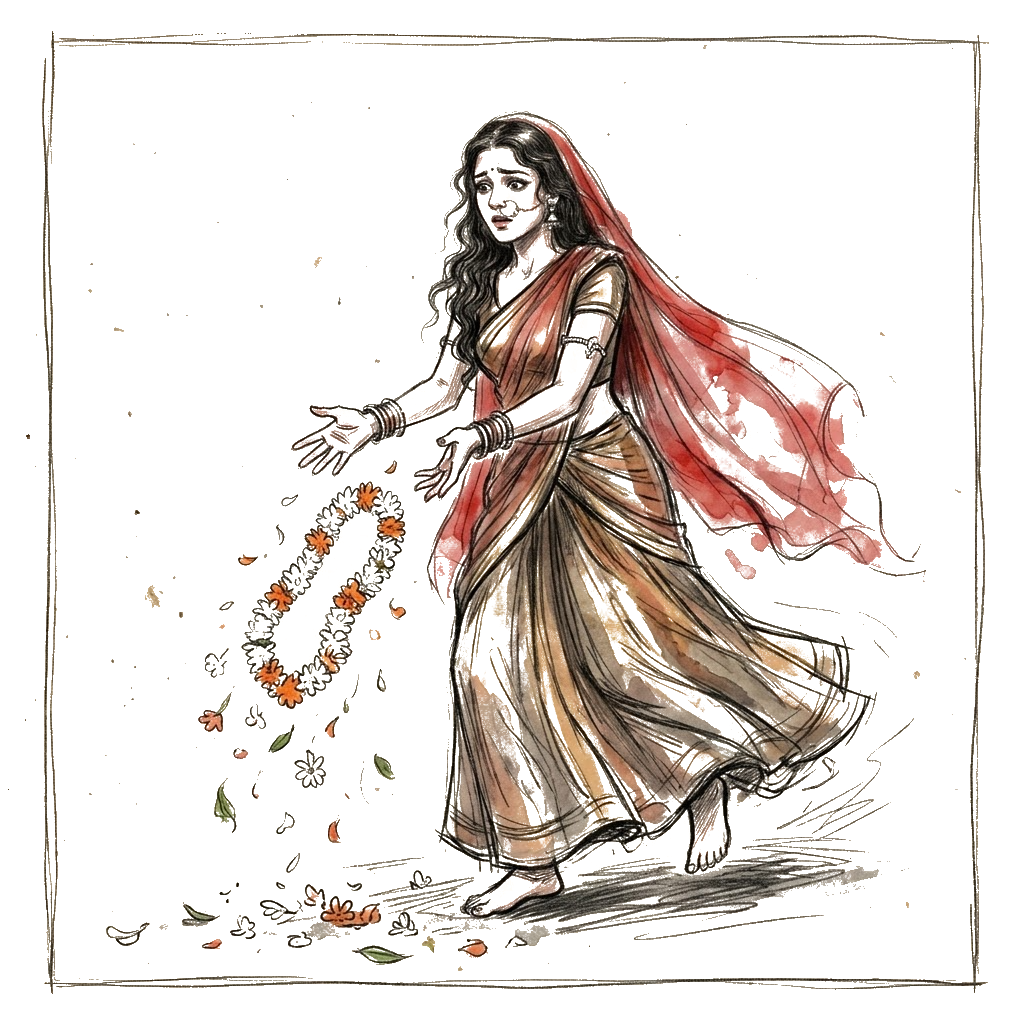
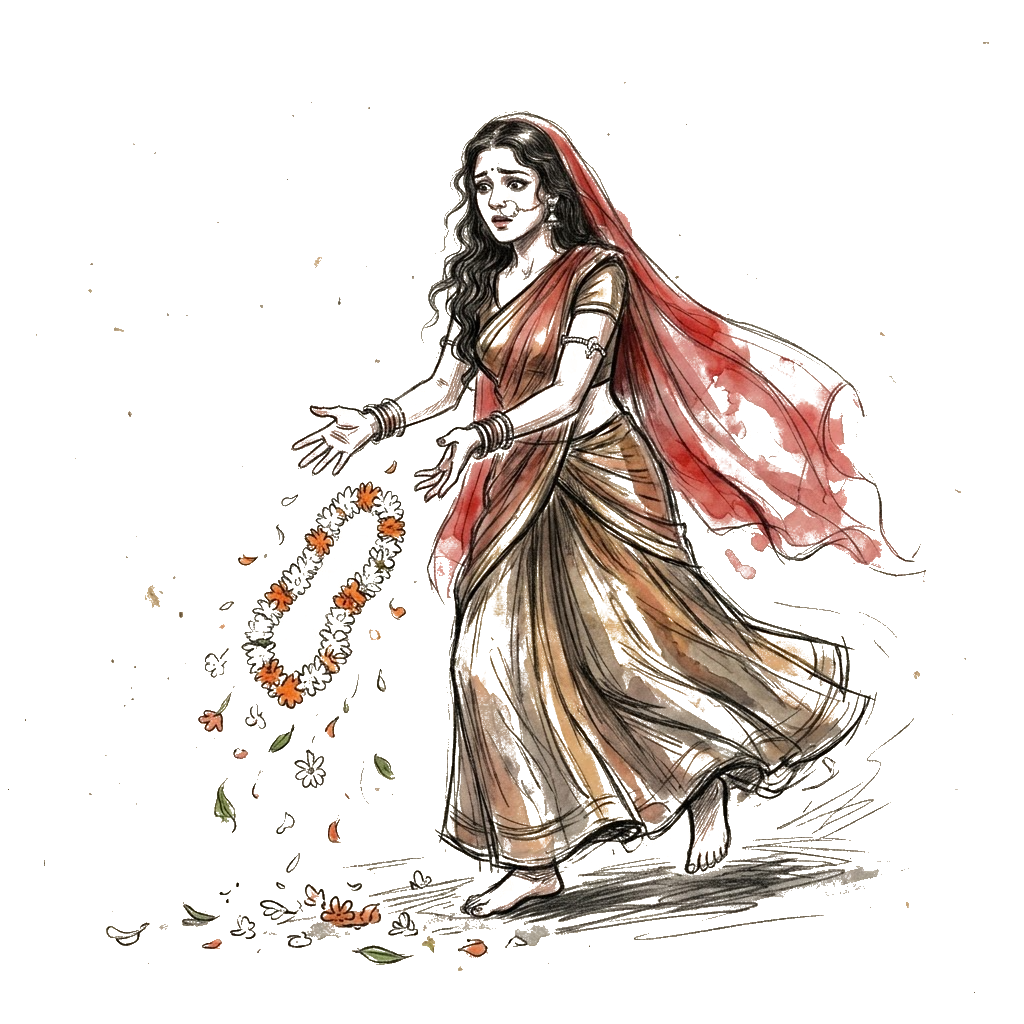
layors

diff --git a/src/timeline/layers.js b/src/timeline/layers.js
@@ -159,7 +159,7 @@ export const shotLayers = {
     ['s07_06', '/assets/paper/cast_krishna/krishna_042_looking_back_with_sorrow.png', 28.677, 29.279], // छोड़
     ['s07_07', '/assets/paper/cast_krishna/krishna_054_turning_into_wind.png', 29.28, 29.906], // गए
     ['s07_08', '/assets/paper/cast_radha/radha_020_radha_gazing_at_full_moon.png', 29.907, 30.533], // आए
-    ['s07_09', '/assets/paper/cast_radha/Woman_warning_do_not_love_94694822.png', 30.534, 31.16], // ना
+    ['s07_09', '/assets/paper/cast_radha/Woman_warning_do_not_love_43c27279.png', 30.534, 31.16], // ना
     ['s07_10', '/assets/paper/cast_radha/radha_084_standing_in_shock.png', 31.161, 31.764], // ना
     ['s07_11', '/assets/paper/cast_krishna/Figure_playing_flute_edb8cf9e.png', 31.765, 32.391], // सँवरिया
     ['s07_12', '/assets/paper/cast_krishna/krishna_089_playing_bamboo_flute.png', 32.392, 33.018], // सँवरिया
@@ -176,15 +176,15 @@ export const shotLayers = {
     ['s08_03', '/assets/paper/cast_radha/Young_woman_tying_crimson_odhni_0ab889c5.png', 36.711, 37.313], // अपना
     ['s08_04', '/assets/paper/cast_radha/radha_012_hands_holding_red_thread.png', 37.314, 37.94], // बनाकर
     ['s08_05', '/assets/paper/cast_krishna/krishna_072_playing_bansuri_sketch.png', 37.941, 38.544], // बनाकर
-    ['s08_06', '/assets/paper/cast_krishna/krishna_026_turning_away_with_flute.png', 38.545, 39.171], // छोड़
+    ['s08_06', '/assets/paper/cast_krishna/krishna_035_gazing_at_starlit_heavens.png', 38.545, 39.171], // छोड़
     ['s08_07', '/assets/paper/cast_krishna/krishna_086_walking_with_flute.png', 39.172, 39.798], // गए
     ['s08_08', '/assets/paper/cast_radha/radha_028_radha_pointing_into_distance.png', 39.799, 40.425], // आए
-    ['s08_09', '/assets/paper/cast_radha/Woman_showing_stop_gesture_ac834cce.png', 40.426, 41.029], // ना
+    ['s08_09', '/assets/paper/cast_radha/Woman_sitting_with_broken_thread_c0c7ce84.png', 40.426, 41.029], // ना
     ['s08_10', '/assets/paper/cast_radha/Woman_warning_do_not_love_43c27279.png', 41.03, 41.656], // ना
     ['s08_11', '/assets/paper/cast_krishna/krishna_091_playing_golden_flute.png', 41.657, 42.259], // सँवरिया
     ['s08_12', '/assets/paper/cast_krishna/Figure_playing_flute_7f64f0af.png', 42.26, 42.886], // सँवरिया
-    ['s08_13', '/assets/paper/cast_krishna/Figure_walking_with_flute_978419c1.png', 42.887, 43.513], // सँवरिया
-    ['s08_14', '/assets/paper/cast_radha/Young_person_sitting_with_sorrow_3f7b1198.png', 43.514, 44.14], // बेदरदी
+    ['s08_13', '/assets/paper/cast_krishna/Figure_playing_flute_7f64f0af.png', 42.887, 43.513], // सँवरिया
+    ['s08_14', '/assets/paper/cast_radha/radha_052_walking_with_sorrowful_steps.png', 43.514, 44.14], // बेदरदी
     ['s08_15', '/assets/paper/cast_krishna/Figure_holding_bansuri_with_tear_ab630819.png', 44.141, 44.744], // बेदरदी
     ['s08_16', '/assets/paper/cast_radha/radha_076_sitting_hugging_midriff.png', 44.745, 45.199], // बेदरदी
   ], {top: '-2%', left: '2%', width: '34%'}),
@@ -199,7 +199,7 @@ export const shotLayers = {
     ['s09_06', '/assets/paper/cast_radha/radha_088_stepping_backwards_looking.png', 48.46, 49.086], // छोड़
     ['s09_07', '/assets/paper/cast_krishna/Figure_walking_away_holding_bansuri_47032d25.png', 49.087, 49.69], // गए
     ['s09_08', '/assets/paper/cast_radha/radha_020_gazing_at_full_moon.png', 49.691, 50.317], // आए
-    ['s09_09', '/assets/paper/cast_radha/Woman_holding_hands_out_stopping_5f96673a.png', 50.318, 50.944], // ना
+    ['s09_09', '/assets/paper/cast_radha/Woman_holding_bamboo_flute_a97eddef.png', 50.318, 50.944], // ना
     ['s09_10', '/assets/paper/cast_radha/Young_person_reacting_in_shock_d0407228.png', 50.945, 51.547], // ना
     ['s09_11', '/assets/paper/cast_krishna/Young_figure_standing_with_bansuri_894a09e8.png', 51.548, 52.174], // सँवरिया
     ['s09_12', '/assets/paper/cast_krishna/Figure_walking_with_bansuri_8d1f4477.png', 52.175, 52.801], // सँवरिया
@@ -277,7 +277,7 @@ export const shotLayers = {
     },
     {
       id: 'v1_r4_preet',
-      src: '/assets/paper/cast_radha/Woman_holding_flute_against_heart_28e13670.png',
+      src: '/assets/paper/cast_radha/Young_woman_holding_heart_c154b81b.png',
       start: 60.233,
       end: 60.835, // beat 60.836
       opacity: 1.0,
@@ -369,10 +369,10 @@ export const shotLayers = {
     ['s12_08', '/assets/paper/cast_radha/radha_029_radha_pointing_toward_rainbow.png', 72.237, 72.863], // कोए
     ['s12_09', '/assets/paper/cast_radha/radha_053_walking_with_urgent_footsteps.png', 72.864, 73.49], // नगर
     ['s12_10', '/assets/paper/cast_radha/radha_044_radha_standing_with_open_arms.png', 73.491, 74.14], // ढिंढोरा
-    ['s12_11', '/assets/paper/cast_radha/Young_woman_proclaiming_with_rai…_46cf846a.png', 74.141, 74.767], // ढिंढोरा
+    ['s12_11', '/assets/paper/cast_radha/Young_woman_placing_hand_on_c3c9fb61.png', 74.141, 74.767], // ढिंढोरा
     ['s12_12', '/assets/paper/cast_radha/radha_049_twirling_in_joyful_circles.png', 74.768, 75.394], // पीटती
-    ['s12_13', '/assets/paper/cast_radha/Woman_holding_flute_against_heart_baafa6b8.png', 75.395, 76.021], // प्रीत
-    ['s12_14', '/assets/paper/cast_radha/Woman_warning_do_not_love_4dadec12.png', 76.022, 76.648], // ना
+    ['s12_13', '/assets/paper/cast_radha/radha_066_holding_flute_at_riverbank.png', 75.395, 76.021], // प्रीत
+    ['s12_14', '/assets/paper/cast_radha/Woman_warning_do_not_love_43c27279.png', 76.022, 76.648], // ना
     ['s12_15', '/assets/paper/cast_radha/Woman_warning_crowd_d85261e7.png', 76.649, 77.275], // करियो
     ['s12_16', '/assets/paper/cast_radha/radha_029_pointing_toward_rainbow.png', 77.276, 77.925], // कोए
     ['s12_17', '/assets/paper/cast_radha/radha_044_standing_with_open_arms.png', 77.926, 78.529], // कोए
@@ -671,10 +671,10 @@ export const shotLayers = {
     ['s27_04', '/assets/paper/cast_radha/radha_021_holding_earthen_diya_lamp.png', 216.038, 216.664], // जलती
     ['s27_05', '/assets/paper/cast_radha/radha_064_holding_burning_incense_stick.png', 216.665, 217.291], // चिता
     ['s27_06', '/assets/paper/cast_radha/radha_037_seated_looking_at_foot.png', 217.292, 217.918], // में
-    ['s27_07', '/assets/paper/cast_krishna/krishna_026_turning_away_with_flute.png', 217.919, 218.545], // छोड़
+    ['s27_07', '/assets/paper/cast_krishna/krishna_027_walking_toward_camera.png', 217.919, 218.545], // छोड़
     ['s27_08', '/assets/paper/cast_krishna/Figure_walking_away_holding_bansuri_7a551536.png', 218.546, 219.172], // गए
     ['s27_09', '/assets/paper/cast_radha/radha_020_radha_gazing_at_full_moon.png', 219.173, 219.799], // आए
-    ['s27_10', '/assets/paper/cast_radha/Woman_warning_do_not_love_4dadec12.png', 219.8, 220.426], // ना
+    ['s27_10', '/assets/paper/cast_radha/Woman_warning_do_not_love_43c27279.png', 219.8, 220.426], // ना
     ['s27_11', '/assets/paper/cast_radha/Woman_warning_do_not_love_068f8aa0.png', 220.427, 221.053], // ना
     ['s27_12', '/assets/paper/cast_krishna/krishna_089_playing_bamboo_flute.png', 221.054, 221.68], // सँवरिया
     ['s27_13', '/assets/paper/cast_krishna/Figure_playing_flute_7f64f0af.png', 221.681, 222.307], // सँवरिया
@@ -695,7 +695,7 @@ export const shotLayers = {
     ['s28_07', '/assets/paper/cast_krishna/Young_figure_walking_away_04e3de9a.png', 227.927, 228.553], // छोड़
     ['s28_08', '/assets/paper/cast_krishna/Figure_turning_with_flute_870609b2.png', 228.554, 229.18], // गए
     ['s28_09', '/assets/paper/cast_krishna/krishna_101_looking_up_sky.png', 229.181, 229.807], // आए
-    ['s28_10', '/assets/paper/cast_radha/Woman_warning_do_not_love_94694822.png', 229.808, 230.434], // ना
+    ['s28_10', '/assets/paper/cast_radha/Woman_warning_do_not_love_43c27279', 229.808, 230.434], // ना
     ['s28_11', '/assets/paper/cast_radha/Woman_warning_do_not_love_6fb3b336.png', 230.435, 231.061], // ना
     ['s28_12', '/assets/paper/cast_krishna/Figure_walking_with_bansuri_9ff0166d.png', 231.062, 231.688], // सँवरिया
     ['s28_13', '/assets/paper/cast_krishna/Figure_walking_with_bansuri_8d1f4477.png', 231.689, 232.315], // सँवरिया
@@ -732,7 +732,7 @@ export const shotLayers = {
     ['s30_02', '/assets/paper/cast_radha/radha_062_gazing_into_hand_mirror.png', 245.505, 246.154], // दो
     ['s30_03', '/assets/paper/cast_radha/Young_woman_looking_through_hands_bf82f696.png', 246.155, 246.781], // नैना
     ['s30_04', '/assets/paper/cast_radha/Young_woman_refusing_with_gestures_843808da.png', 246.782, 247.454], // मत
-    ['s30_05', '/assets/paper/cast_radha/Woman_holding_hands_out_stopping_5f96673a.png', 247.455, 248.104], // खाइयो
+    ['s30_05', '/assets/paper/cast_radha/Woman_holding_bamboo_flute_a97eddef.png', 247.455, 248.104], // खाइयो
     ['s30_06', '/assets/paper/cast_radha/Young_woman_reaching_upward_f69885ed.png', 248.105, 248.754], // मोहे
     ['s30_07', '/assets/paper/cast_krishna/krishna_100_reaching_upward.png', 248.755, 249.381], // पिया
     ['s30_08', '/assets/paper/cast_radha/radha_032_radha_reaching_outward_in_longing.png', 249.382, 250.031], // मिलन
@@ -740,7 +740,7 @@ export const shotLayers = {
     ['s30_10', '/assets/paper/cast_radha/radha_100_art_portrait.png', 250.683, 251.332], // दो
     ['s30_11', '/assets/paper/cast_radha/radha_087_staring_at_mehndi_patterns.png', 251.333, 251.959], // नैना
     ['s30_12', '/assets/paper/cast_radha/Woman_looking_through_her_hands_dabcf5b1.png', 251.96, 252.609], // नैना
-    ['s30_13', '/assets/paper/cast_radha/Woman_showing_stop_gesture_ac834cce.png', 252.61, 253.282], // खाइयो
+    ['s30_13', '/assets/paper/cast_radha/Woman_sitting_with_broken_thread_c0c7ce84.png', 252.61, 253.282], // खाइयो
     ['s30_14', '/assets/paper/cast_radha/Woman_clutching_veil_8bdd80cf.png', 253.283, 253.932], // खाइयो
     ['s30_15', '/assets/paper/cast_radha/Woman_reaching_out_with_hope_3b22a4ad.png', 253.933, 254.583], // मोहे
     ['s30_16', '/assets/paper/cast_krishna/krishna_104_holding_bamboo_flute.png', 254.584, 255.233], // पिया
